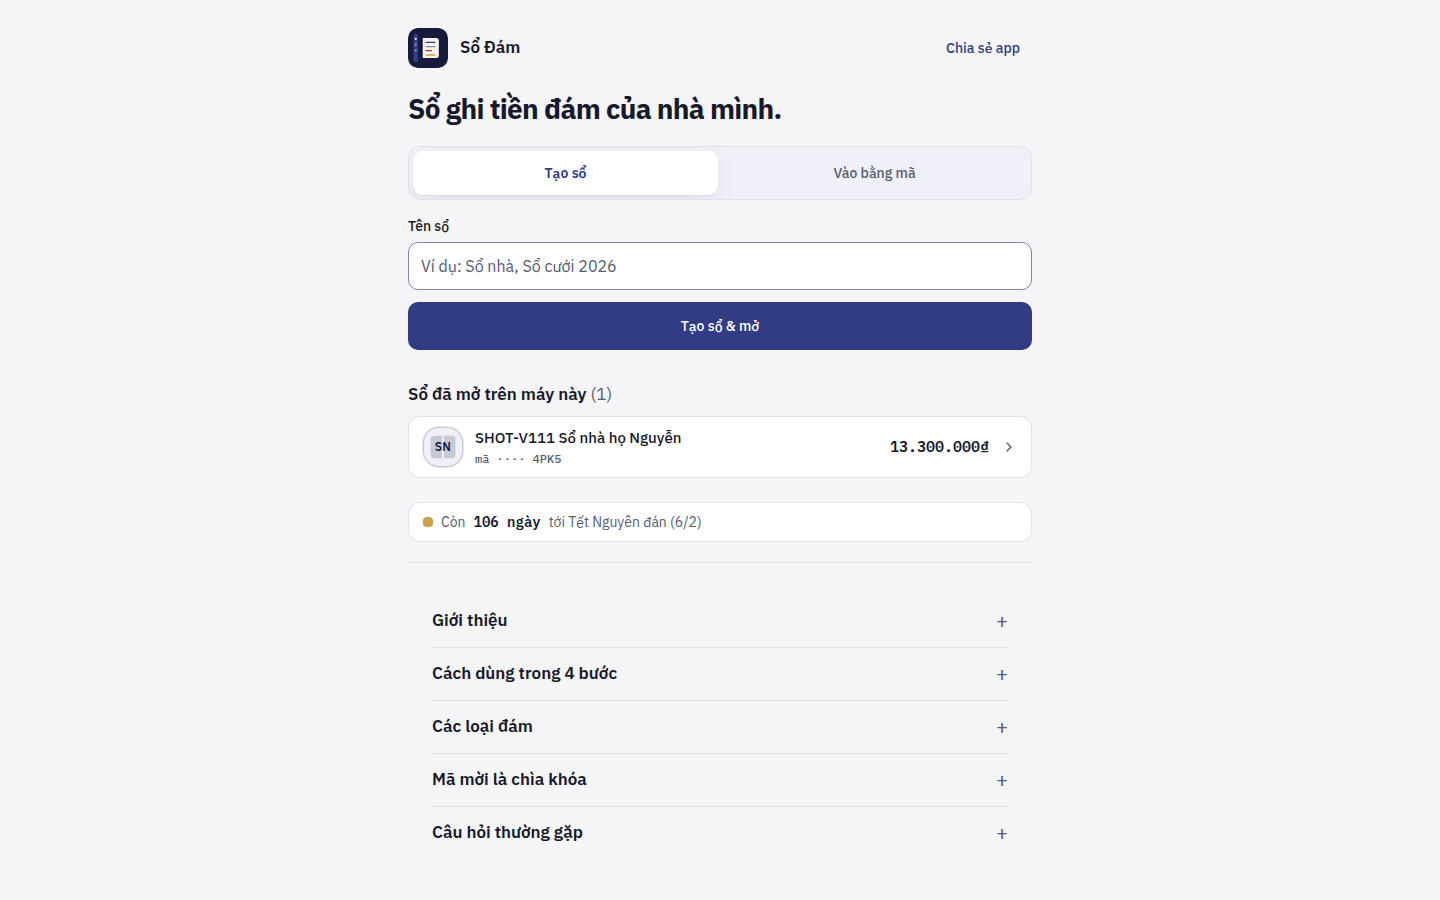
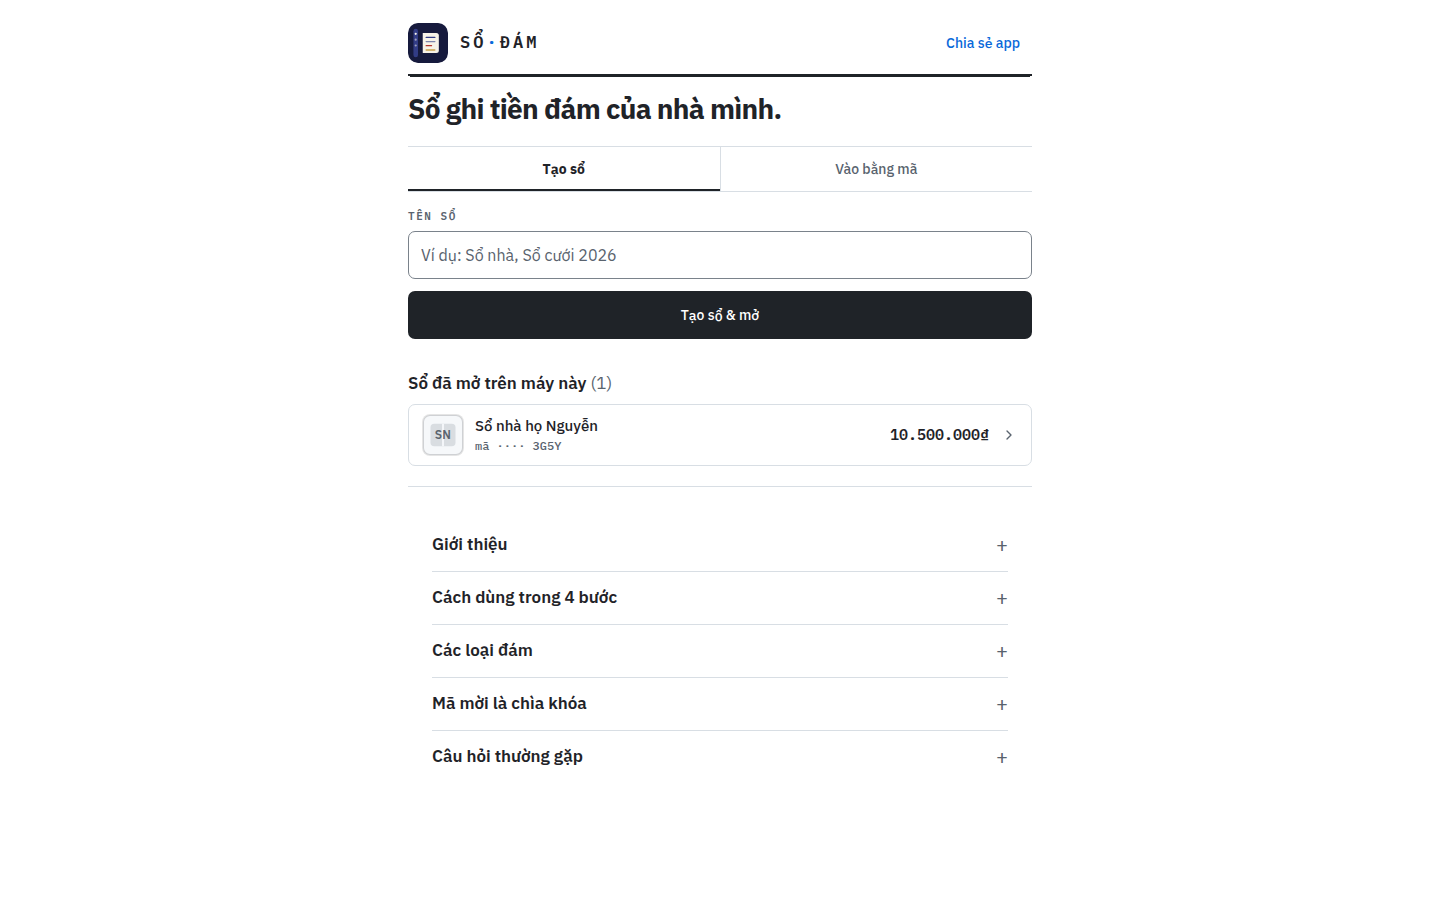
docs: screenshot pack re-shot on live v1.3.0 «Trang Sổ Kẻ» + captions (R2 byte-exact 3/3, Checker A delta-PASS + B PASS)

diff --git a/README.md b/README.md
@@ -17,7 +17,7 @@ code (or the share link) with family so everyone writes in the same book.
 Repository: https://github.com/changvn2002/sodam
 
 <p align="center">
-  <img src="docs/screenshots/sodam-desktop.png" alt="Sổ Đám — the wedding workspace of a real family book: 13.300.000 ₫ received across five events, 6.800.000 ₫ still held, 6.800.000 ₫ of returns still open" width="900">
+  <img src="docs/screenshots/sodam-desktop.png" alt="Sổ Đám — the wedding workspace of a real family book: 10.500.000 ₫ received across five events, 4.000.000 ₫ still held, 4.000.000 ₫ of returns still open" width="900">
 </p>
 <p align="center"><em>The live wedding workspace of a real family book — every guest row carries its return state, the totals strip breaks its own numbers down, and there is no sign-in anywhere.</em></p>
 
@@ -52,83 +52,83 @@ ran as a client module talking to a NestJS backend.
 ## 🖼 Screenshots
 
 Every screenshot below was captured from the live production deployment at
-https://sodam-tawny.vercel.app (the redesign-v2 "Command Ledger" build,
-v1.2.0) with the app in a **real, populated state** — never an empty first-run
-screen. The book on screen is **"Sổ nhà họ Nguyễn"** (capture copy
-"SHOT-V111"), holding five events: a hosted wedding ("Đám cưới Minh Anh &
-Quốc Bảo", 18 Oct 2026) with six guests, a hosted funeral ("Đám tang cụ
-Nguyễn Văn An", 13 Sep 2026) with four mourners, a hosted death anniversary
-("Đám giỗ cụ Nguyễn Văn Ba", 23 Aug 2026), and two events the family attended
-— a wedding (11 Oct 2026) and a thôi nôi (20 Sep 2026). Three return gifts
-have already been marked as returned — one of them 200.000 ₫ more than the
-guest originally gave. Invite codes are never printed in this README; on the
+https://sodam-tawny.vercel.app (the v1.3.0 "Trang Sổ Kẻ" ledger redesign)
+with the app in a **real, populated state** — never an empty first-run
+screen. The book on screen is **"Sổ nhà họ Nguyễn"**, holding five events:
+a hosted wedding ("Đám cưới Minh Anh & Quốc Bảo", 18 Oct 2026) with five
+guests, a hosted funeral ("Đám tang cụ Nguyễn Văn An", 13 Sep 2026) with two
+mourners, a hosted death anniversary ("Đám giỗ cụ Nguyễn Văn Ba", 23 Aug
+2026), and two events the family attended — a thôi nôi (5 Oct 2026) and an
+engagement (11 Oct 2026). Four of the eight obligations have already been
+returned in full. Invite codes are never printed in this README; on the
 home screen the app itself only ever shows a masked code.
 
 ### The wedding workspace — ledger, totals and the breakdown
 
-![Desktop 1440×900 — wedding workspace of "Sổ nhà họ Nguyễn": six guest rows with return states, event summary 10.000.000 ₫ received, and the book totals strip with its two labelled breakdown terms](docs/screenshots/sodam-desktop.png)
+![Desktop 1440×900 — wedding workspace of "Sổ nhà họ Nguyễn": five guest rows with return states, event summary 8.800.000 ₫ received, and the book totals strip with its two labelled breakdown terms](docs/screenshots/sodam-desktop.png)
 
 _The workspace is one continuous screen: the rail on the left (Sổ → Đám → Mặt),
 the quick-entry command bar on top, and the ledger in the middle. The totals
-strip reads the whole book at a glance — 13.300.000 ₫ received ("Tổng đã nhận"),
-8.200.000 ₫ gone out ("Tổng đã đi (đi đám + trả lễ)" — attended gifts plus
-returns actually paid), 6.800.000 ₫ still held ("Còn giữ") and 6.800.000 ₫ of
-returns still open across 9 obligations ("Cần trả lễ") — and the line
+strip reads the whole book at a glance — 10.500.000 ₫ received ("Tổng đã nhận"),
+7.200.000 ₫ gone out ("Tổng đã đi (đi đám + trả lễ)" — attended gifts plus
+returns actually paid), 4.000.000 ₫ still held ("Còn giữ") and 4.000.000 ₫ of
+returns still open across 4 obligations ("Cần trả lễ") — and the line
 underneath breaks the money out into two labelled terms instead of an
 equation: 6.500.000 ₫ already laid out from what the book received
-("Đã đi trong khoản đã nhận") and 1.700.000 ₫ of over-returns plus attended
-gifts ("Trả dư + đi đám"). The wedding itself took 10.000.000 ₫ from
-6 guests; 6.000.000 ₫ of it is already settled, and every row carries its own
-return state: "Chờ trả", "Đã trả", or "Trả dư" for the guest who was returned
-more than they gave._
+("Đã đi trong khoản đã nhận") and 700.000 ₫ of attended gifts ("Đi đám").
+The wedding itself took 8.800.000 ₫ from 5 guests; 6.300.000 ₫ of it is
+already settled, and every row carries its own return state: "Chờ trả" or
+"Đã trả"._
 
 | Mobile (390×844) | Social / link-preview (1280×640) |
 | --- | --- |
-| ![Mobile — the same wedding workspace on a phone: event chips, totals and breakdown on top, guest ledger below, "Còn giữ" and the record button pinned at the bottom](docs/screenshots/sodam-mobile.png) | ![Social — 1280×640 preview frame of the wedding workspace: totals strip, event summary and the first guest rows](docs/screenshots/sodam-social.png) |
-| _On a phone the rail becomes event chips and the four faces become tabs (Tổng quan / Trả lễ / Người / Cây họ); the bottom bar keeps "Còn giữ 6.800.000 ₫" and the "Ghi khoản" button always in reach._ | _The 1280×640 frame of the same screen: the totals, the wedding summary (10.000.000 ₫ mừng, 6.000.000 ₫ đã trả) and the settled / over-given rows are visible before the app even opens._ |
+| ![Mobile — the same wedding workspace on a phone: event selector and search on top, totals and breakdown below, the guest ledger under them, and the "Ghi khoản" button pinned at the bottom](docs/screenshots/sodam-mobile.png) | ![Social — 1280×640 preview frame of the wedding workspace: totals strip, event summary and the first guest rows](docs/screenshots/sodam-social.png) |
+| _On a phone the rail becomes an event selector and the four faces become tabs (Tổng quan / Trả lễ / Người / Cây họ); the totals stay on top — "Còn giữ 4.000.000 ₫" in the strip — and the "Ghi khoản" button stays pinned at the bottom._ | _The 1280×640 frame of the same screen: the totals, the wedding summary (8.800.000 ₫ mừng, 6.300.000 ₫ đã trả) and the first guest rows are visible before the app even opens._ |
 
 ### Step by step
 
 **Step 1 — Open the app, create a book.** No account, no sign-in: the home screen
 carries the create-book / join-by-code tabs and lists the books kept on this
 device — each with its running total and a **masked** invite code (the full code
-is never shown on screen). The season card counts 106 days to Tết Nguyên đán
-(6 Feb 2027).
+is never shown on screen).
 
-![Step 1 — home: create/join tabs, the "Sổ nhà họ Nguyễn" book card with its masked invite code and 13.300.000 ₫ total, and the Tết countdown card](docs/screenshots/gallery-01-tao-so.png)
+![Step 1 — home: create/join tabs and the "Sổ nhà họ Nguyễn" book card with its masked invite code and 10.500.000 ₫ total](docs/screenshots/gallery-01-tao-so.png)
 
 **Step 2 — Record who gave what.** The entry sheet opens over the ledger: type a
 name (or dictate it on the "Giọng nói" tab), tap a quick amount chip, and the
-"Sẽ ghi:" line reads the entry back — "Dì Út — 500.000 ₫ tiền mừng" — before
+"Sẽ ghi:" line reads the entry back — "Dì Bảy — 500.000 ₫ tiền mừng" — before
 "Lưu khoản mừng" saves it. Nothing is written until that read-back looks right.
 
 ![Step 2 — the entry sheet mid-action over the wedding ledger: guest name typed, 500.000 ₫ chip chosen, the read-back line confirming the entry before it is saved](docs/screenshots/gallery-02-ghi-le.png)
 
 **Step 3 — Work the return list.** The "Trả lễ" face collects every obligation
-across all five events under one summary strip — 6.800.000 ₫ still waiting
-("Chờ trả"), 6.700.000 ₫ already returned ("Đã trả"), 200.000 ₫ given over
-("Trả dư") — with a tab per state and the amount owed shown on every row.
+across all five events under one summary strip — 4.000.000 ₫ still waiting
+("Chờ trả") across 4 obligations, 6.500.000 ₫ already returned ("Đã trả"),
+nothing given over ("Trả dư" 0 ₫) — with a tab per state and the amount owed
+shown on every row.
 
-![Step 3 — the return list: summary strip (6.800.000 ₫ waiting, 6.700.000 ₫ returned, 200.000 ₫ over-given), state tabs, and open obligations from the anniversary, the funeral and the wedding](docs/screenshots/gallery-03-tra-le.png)
+![Step 3 — the return list: summary strip (4.000.000 ₫ waiting, 6.500.000 ₫ returned, 0 ₫ over-given), state tabs, and open obligations from the wedding, the funeral and the anniversary](docs/screenshots/gallery-03-tra-le.png)
 
 **Step 4 — A funeral speaks a different language.** The same workspace, a
 completely different voice: the funeral of cụ Nguyễn Văn An totals
-"Tổng phúng viếng" — 2.300.000 ₫ from 4 "người viếng" (mourners) — its summary
-tracks what has been returned as "Đã đi lại" (500.000 ₫ so far), and no wedding
-vocabulary appears anywhere on the screen. The solar date (13/9/2026) is shown
+"Tổng phúng viếng" — 700.000 ₫ from 2 "người viếng" (mourners) — its summary
+tracks what has been returned as "Đã đi lại" (200.000 ₫ so far), and no wedding
+vocabulary appears anywhere in the funeral's own ledger. The solar date (13/9/2026) is shown
 together with its Vietnamese lunar date (3/8 âm lịch).
 
-![Step 4 — the funeral workspace in its solemn voice: "Tổng phúng viếng" 2.300.000 ₫, four mourners listed as "Người viếng", lunar date 3/8 âm lịch](docs/screenshots/gallery-04-tong-ket-su-kien.png)
+![Step 4 — the funeral workspace in its solemn voice: "Tổng phúng viếng" 700.000 ₫, two mourners listed as "Người viếng", lunar date 3/8 âm lịch](docs/screenshots/gallery-04-tong-ket-su-kien.png)
 
 **Step 5 — Every person, both directions.** The "Người" face totals each
 relationship across all events, with every flow labelled — "Nhận" (received),
 "Đi đám" (given at events the family attended) and "Trả lễ" (actually returned).
-Ông bà ngoại are fully settled (5.000.000 ₫ received, 5.000.000 ₫ returned);
-Cô Tư was returned 1.700.000 ₫ against 1.500.000 ₫ received, so her row reads
-"Đã trả lễ — Trả dư" instead of claiming a balance she no longer owes. What the
+Cô Tư is fully settled — 1.200.000 ₫ across the wedding and the funeral, all of
+it returned — and so is Chú Ba (300.000 ₫ received, 300.000 ₫ returned). Anh Hùng still
+owes both of his: 500.000 ₫ from the wedding and 500.000 ₫ from the funeral.
+The hosts of the two attended events appear with their "Đã đi đám" totals —
+Chị Lan 500.000 ₫, Anh Tuấn 200.000 ₫. What the
 book owes and what it is owed is visible per person, not just per event.
 
-![Step 5 — the People face: seven people with labelled two-way totals (Nhận / Đi đám / Trả lễ) and their return state, from Ông bà ngoại fully settled to Cô Tư returned 200.000 ₫ over](docs/screenshots/gallery-05-nguoi.png)
+![Step 5 — the People face: eight people with labelled two-way totals (Nhận / Đi đám / Trả lễ) and their return state, from Cô Tư fully settled to Anh Hùng still owing both of his](docs/screenshots/gallery-05-nguoi.png)
 
 ## 🛠 Tech stack
 
